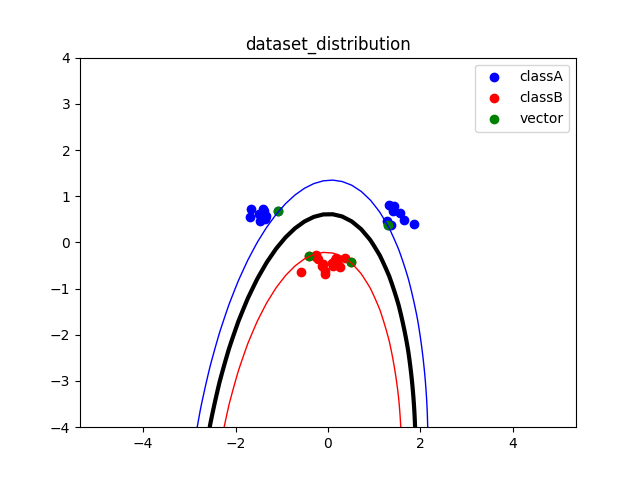
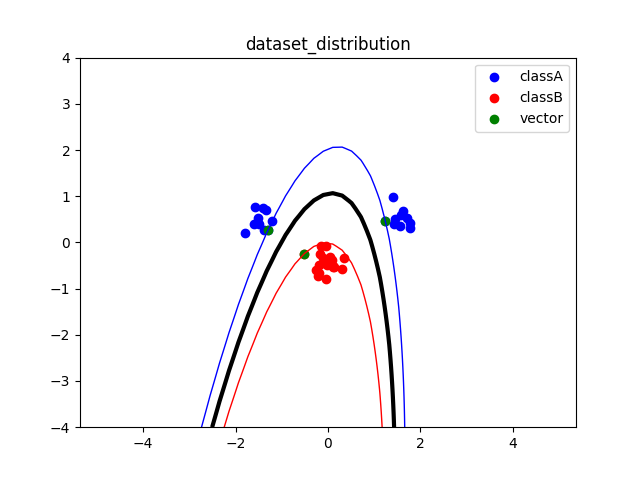
1

Changed region(s): [[0.3125, 0.3438, 0.6875, 0.9062], [0.5312, 0.3125, 0.5625, 0.3438], [0.4688, 0.3125, 0.5, 0.3438]]

diff --git a/Lab2/Lab2.py b/Lab2/Lab2.py
@@ -24,7 +24,7 @@ B_Y_CENTER = -0.5
 
 STANDARD_DEVIATION = 0.2
 
-C = np.inf
+C = 10
 
 kernels = [Linear_kernel, Polynomial_kernel, RBF_kernel]
 kernel = kernels[1]
